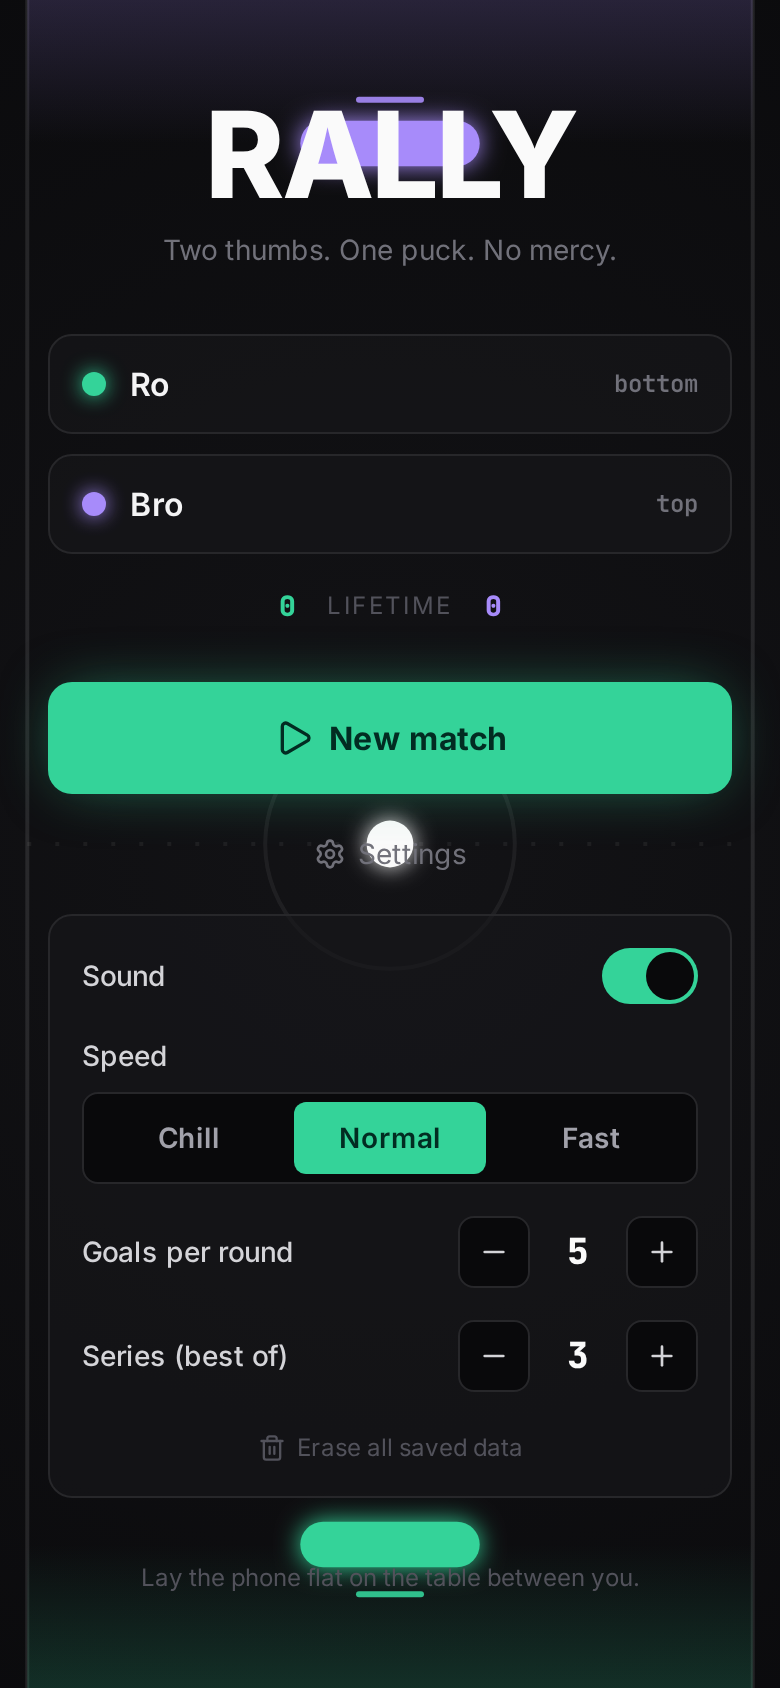
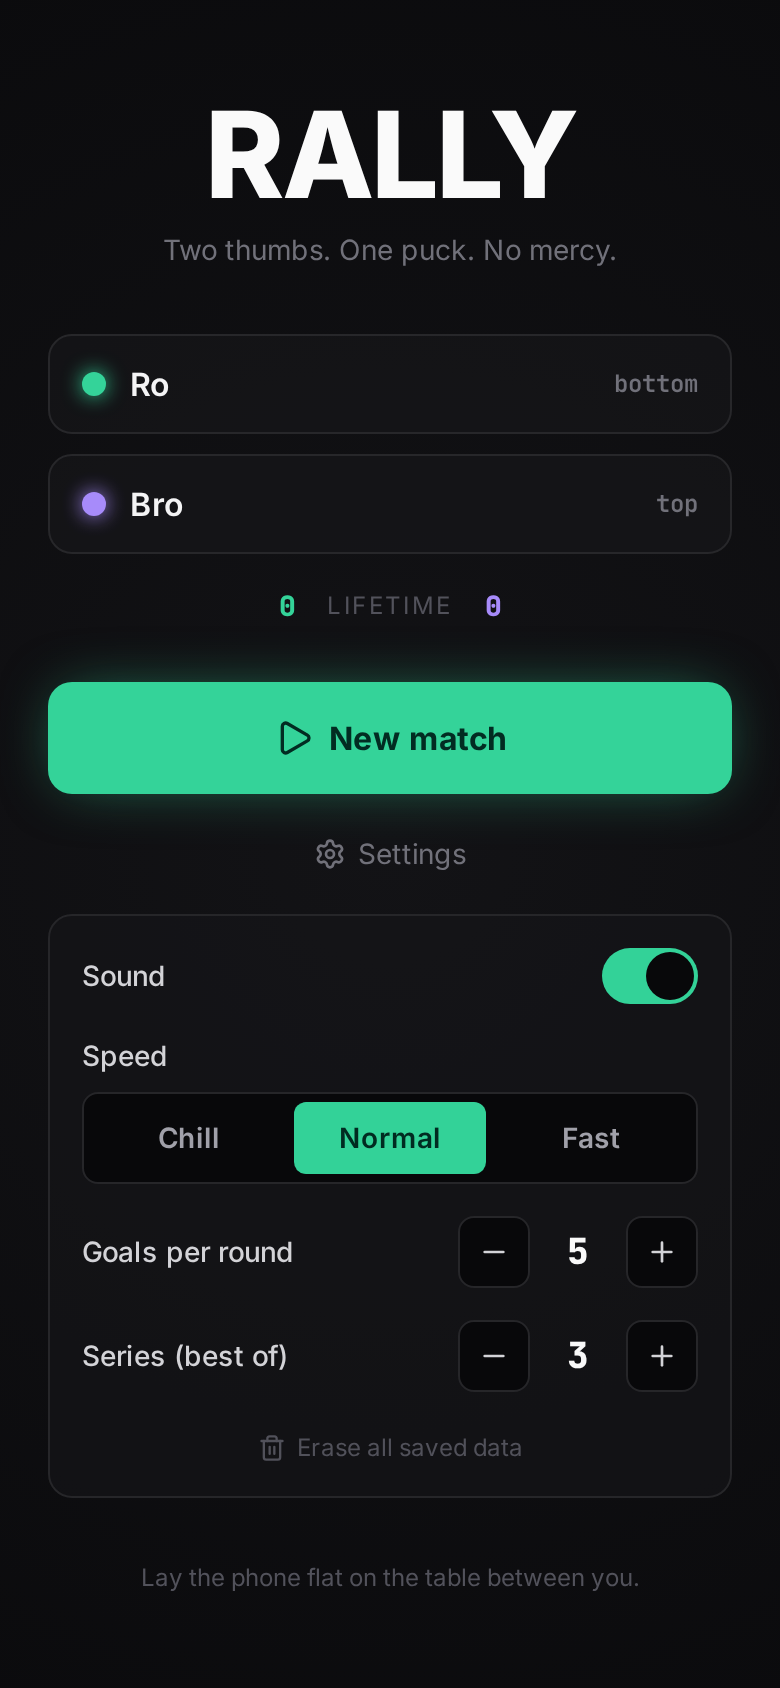
beckett: OPS-170 checkpoint (wk_947df614)

Changed region(s): [[0.0308, 0.8934, 0.9846, 1.0], [0.0308, 0.0, 0.9846, 0.1232], [0.4615, 0.4621, 0.5538, 0.5237]]

diff --git a/game.js b/game.js
@@ -591,6 +591,9 @@
     ctx.fillStyle = bg;
     ctx.fillRect(-20, -20, W + 40, H + 40);
 
+    // on the menu, keep the canvas a clean gradient — no arena clutter behind text
+    if (G.phase === 'home') { if (sx || sy) ctx.translate(-sx, -sy); return; }
+
     // center line
     ctx.save();
     ctx.strokeStyle = 'rgba(255,255,255,0.06)';

diff --git a/README.md b/README.md
@@ -1,0 +1,69 @@
+# RALLY
+
+A two-player, one-phone deflect duel. Lay the phone **flat on the table** between
+you and your opponent, sitting across from each other, and defend your end. The
+puck ricochets between the two goal lines, speeding up on every volley — miss it
+and the other side scores. First to *N* goals takes the round; win the majority of
+a best-of series to take the match.
+
+The screen is a mirrored split: the **top** player's HUD is rotated 180° so it
+reads right-side-up from their seat, the **bottom** player's faces the other way.
+Both play at once, one thumb each.
+
+- **P1 (emerald)** defends the **bottom** edge.
+- **P2 (violet)** defends the **top** edge.
+
+## Controls
+
+- **Drag** your thumb along your end to slide your paddle and return the puck.
+  The paddle tracks your thumb exactly — no lag. Off-center hits put curve on the
+  puck; sweeping the paddle as you hit adds side-spin.
+- **Tap** (a quick tap on your half, no drag) to **dash** — a short forward lunge
+  that returns the puck harder. It has a ~1.5s cooldown, shown as a small pip by
+  your paddle.
+- **Pause** with the button in the middle of the arena.
+
+## Everything is saved
+
+State persists to `localStorage`, so a refresh or an accidental close never loses
+a game:
+
+- An **in-progress match** resumes exactly — score, serve, series, paddle and puck
+  positions. Refresh mid-rally and you'll see a **Resume match** button.
+- The **best-of series** score and a **lifetime win tally** per side.
+- **Player names**, **sound**, **speed**, goals-per-round, and series length.
+- **Reset series** clears the current match/series but keeps names, settings, and
+  lifetime stats. **Erase all saved data** (in Settings) wipes everything.
+
+## Run it locally
+
+It's a plain static site — no build step, no server code. Serve the repo root over
+HTTP and open it on a phone (or use your browser's device emulator, portrait):
+
+```bash
+# any static server works, e.g.
+python3 -m http.server 8000
+# then open http://localhost:8000
+```
+
+Opening `index.html` over `http(s)` "just works" on mobile — canvas game, Tailwind
+(CDN) for the menu chrome, Web Audio for SFX (generated tones, no asset files),
+lucide for icons. Viewport is locked (no scroll/zoom), and haptics fire via
+`navigator.vibrate` where supported.
+
+## Tests
+
+A headless Playwright suite covers the rules that matter — no-tunnel physics at up
+to 6× max speed, scoring, save/resume fidelity, the win flow + lifetime tally, and
+that reset preserves preferences:
+
+```bash
+node test/smoke.mjs     # asserts game logic + persistence
+node test/shots.mjs     # writes menu/gameplay screenshots to test/
+```
+
+## Files
+
+- `index.html` — chrome, overlays (menu, pause, round/win), and the canvas.
+- `game.js` — the whole game: state machine, fixed-step physics with swept
+  collision, Web Audio SFX, particles/juice, and localStorage persistence.